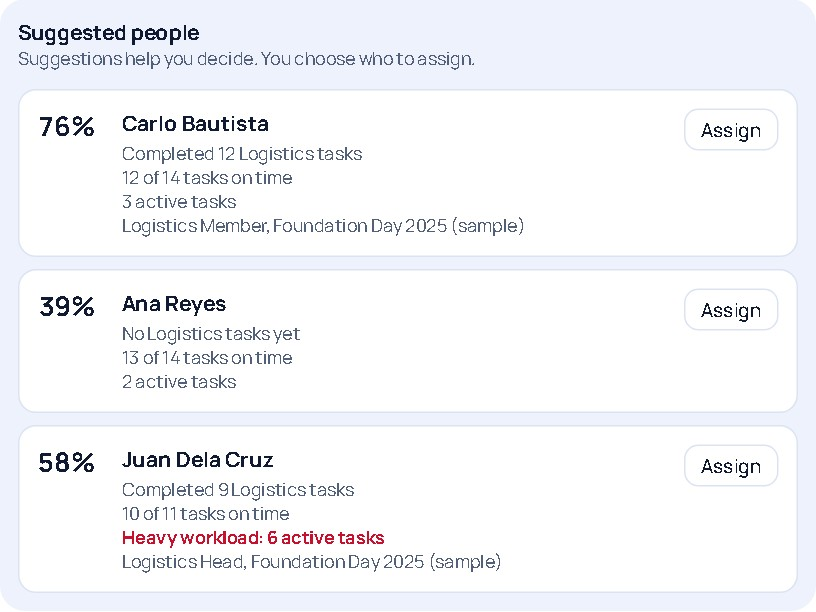
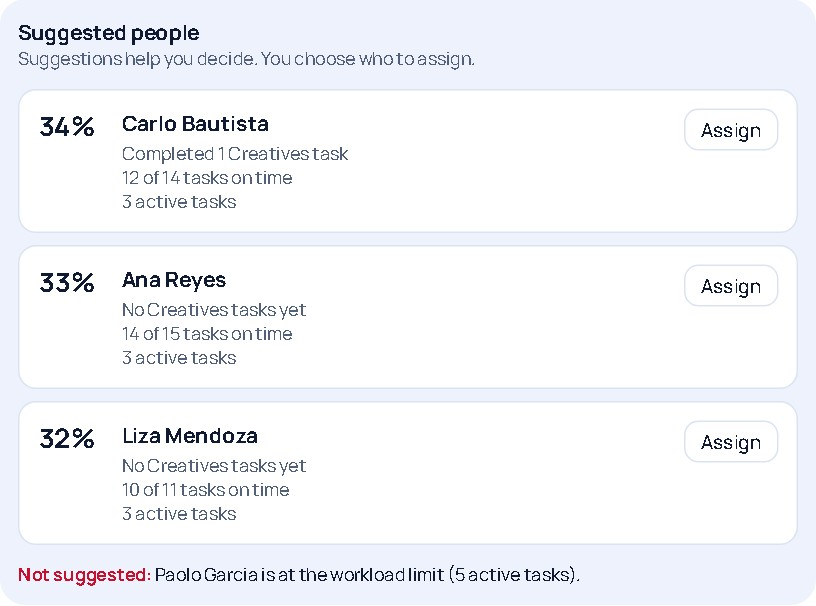
feat: add a Recognition Day sample project and refresh the landing page screenshots

diff --git a/prisma/seed.ts b/prisma/seed.ts
@@ -93,6 +93,27 @@ const ACTIVE: { name: string; type: "EVENT" | "ACADEMIC"; start: number; target:
       ["Book the referees", "Logistics", "MEDIUM", "BACKLOG", null, 4, 1],
     ],
   },
+  // Gives the Lead, Member and Adviser demo accounts more to show. Nobody here is near the workload
+  // limit, and it adds no Logistics or Creatives history, so the demo's suggestions stay the same.
+  {
+    name: "Recognition Day 2026 (sample)", type: "EVENT", start: -14, target: 21,
+    team: [["maria.santos", "LEAD"], ["juan.delacruz", "MEMBER"], ["ana.reyes", "MEMBER"], ["liza.mendoza", "MEMBER"], ["elena.ramos", "ADVISER"]],
+    milestones: [["Awardee list approved", -3], ["Invitations sent", 5], ["Program rehearsal", 18]],
+    rows: [
+      ["Write the recognition criteria", "Documentation", "HIGH", "DONE", "juan.delacruz", -10, 0],
+      ["Compile the nominations", "Documentation", "MEDIUM", "DONE", "ana.reyes", -8, 0],
+      ["List the awardees", "Documentation", "HIGH", "DONE", "juan.delacruz", -5, 0],
+      ["Draft the invitation letter", "Documentation", "MEDIUM", "DONE", "maria.santos", -4, 1],
+      ["Canvass medal prices", "Finance", "LOW", "DONE", "liza.mendoza", -3, null],
+      ["Write the awardee citations", "Documentation", "HIGH", "REVIEW", "ana.reyes", 5, 1],
+      ["Prepare the awards budget", "Finance", "MEDIUM", "REVIEW", "liza.mendoza", 7, null],
+      ["Prepare the opening remarks", "Documentation", "MEDIUM", "IN_PROGRESS", "maria.santos", 4, 2],
+      ["Confirm the guest speaker", "Documentation", "HIGH", "IN_PROGRESS", "maria.santos", 6, 1],
+      ["Approve the program flow", "Documentation", "MEDIUM", "TODO", "maria.santos", 10, 2],
+      ["Prepare the awards list", "Documentation", "MEDIUM", "TODO", "juan.delacruz", 12, 2],
+      ["Arrange the photo booth", "Creatives", "LOW", "BACKLOG", null, 15, 2],
+    ],
+  },
 ];
 
 const today = manilaDateKey(new Date());

diff --git a/tests/e2e/home.spec.ts b/tests/e2e/home.spec.ts
@@ -79,3 +79,19 @@ test("the landing page's screenshots fit on a phone", async ({ page }) => {
   await page.waitForLoadState("networkidle");
   expect(await page.evaluate(() => document.documentElement.scrollWidth)).toBeLessThanOrEqual(375);
 });
+
+test("the demo accounts have sample work to show", async ({ page }) => {
+  await signIn(page, /Lead:/);
+  await expect(page.getByText("Prepare the opening remarks")).toBeVisible();
+  const projects = page.getByRole("region", { name: "My projects" });
+  await expect(projects.getByRole("link", { name: /Foundation Day 2026/ })).toBeVisible();
+  await expect(projects.getByRole("link", { name: /Recognition Day 2026/ })).toContainText("On Track");
+
+  await page.getByRole("button", { name: "Sign out" }).click();
+  await page.waitForURL("**/");
+  await signIn(page, /Adviser:/);
+  await page.goto("/overview");
+  for (const name of [/Intramurals 2026/, /Foundation Day 2026/, /Recognition Day 2026/, /Capstone Group 3/]) {
+    await expect(page.getByRole("link", { name })).toBeVisible();
+  }
+});

diff --git a/src/app/page.tsx b/src/app/page.tsx
@@ -193,9 +193,9 @@ export default async function GuestHomePage() {
             </p>
             <Image
               src="/landing/suggestions.jpg"
-              alt="Suggested people for a new task, each with a match percent and reasons, and one person marked as having a heavy workload"
+              alt="Suggested people for a new task, each with a match percent and reasons, and a note that one person is at the workload limit"
               width={816}
-              height={612}
+              height={606}
               sizes="(min-width: 1024px) 50vw, 100vw"
               className="mt-2 h-auto w-full rounded-xl border border-border shadow-lg"
             />
